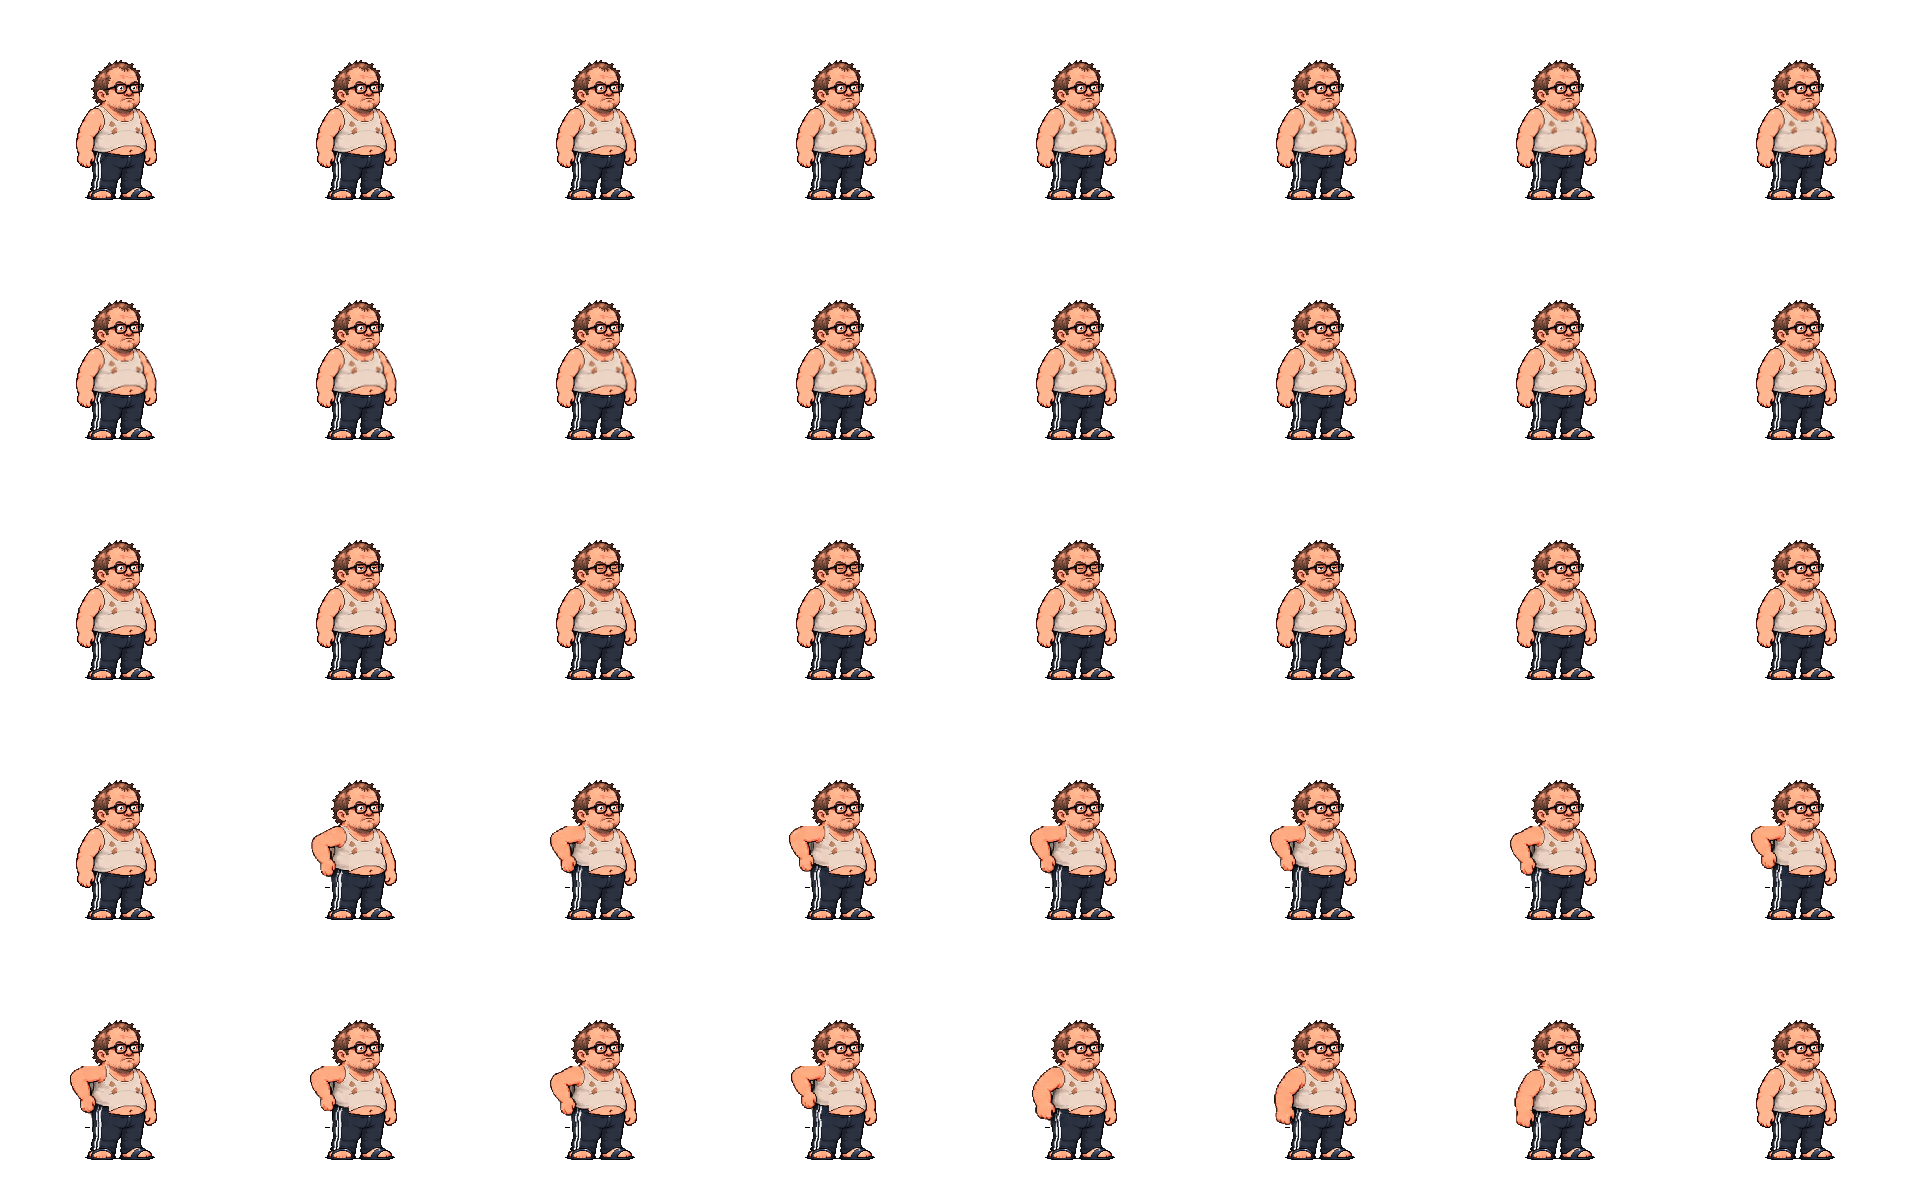
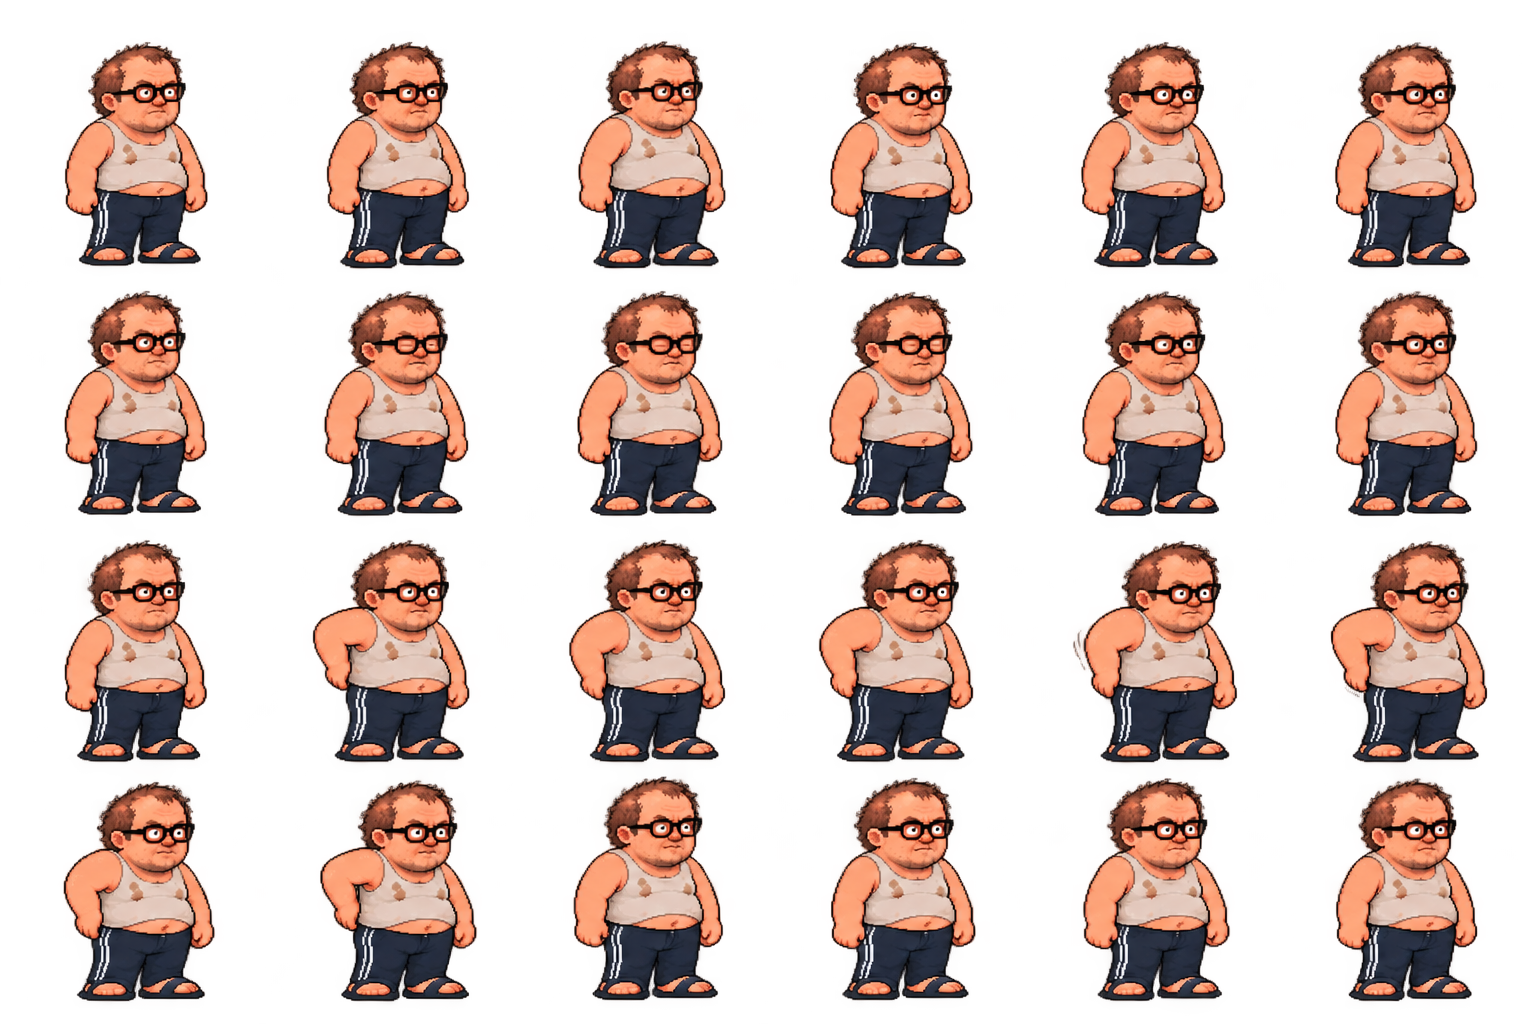
Статика на новом листе 6×4: дыхание, моргание, почёсывание
Кадры совмещены по ногам (в исходнике фигура гуляла на 20 px). Ряд
моргания снова перерисован целиком, поэтому вернул пересадку век:
кадры 7–12 = дыхание 1–6 с закрытыми веками из кадра 10. Чесание —
13–14, цикл 15–18 трижды, 19–24.

diff --git a/index.html b/index.html
@@ -9,7 +9,7 @@
 <div class="workspace"><section class="stage" aria-label="Анимационный экран"><div class="stage-top"><span><i class="dot"></i><span id="live">ЖИВЁТ СВОЮ ЖИЗНЬ</span></span><span>240 × 240 PX</span></div><div class="device"><canvas id="screen" width="240" height="240" aria-label="Игоряша в комнате"></canvas><div class="device-footer">SMALLTV PRO · ИГОРЯШГОЧИ</div></div><p class="scale-note">Персонаж ≈ 140 px · масштаб без сглаживания</p><div id="error" role="alert"></div></section>
 <aside><div class="intro"><div class="tag">Проверка спрайтшитов</div><h1>Один день Игоряши</h1><p>Пока ты смотришь, он занимается своими делами. Или выбери, чем ему заняться.</p></div>
 <div class="card"><div class="row"><div><div class="label">Сейчас</div><div id="status" class="status" aria-live="polite">Загружается…</div></div><span id="mode" class="mode">АВТО</span></div><div class="progress"><i id="progress"></i></div>
-<div class="actions"><button data-action="idle">Стоять <small>дышит и моргает</small></button><button data-action="scratch">Чесать жопу <small>кадры 25–40</small></button><button data-action="walk">Походить <small>готовые 24 кадра</small></button><button data-action="hungry">Просить хинкал <small>стучит в экран</small></button><button data-action="eat">Поесть <small>похлёбка, три подхода</small></button><button data-action="sick">Заболеть <small>тошнит</small></button><button data-action="love">Акт любви <small>кукла, обнимашки, бах</small></button><button data-action="tanks">Танки <small>катка, потом победа или ярость</small></button><button data-action="poop">Посрать <small>готовые 16 кадров</small></button><button id="clean">Убрать <small>очистить пол</small></button></div>
+<div class="actions"><button data-action="idle">Стоять <small>дышит и моргает</small></button><button data-action="scratch">Чесать жопу <small>чешет три раза</small></button><button data-action="walk">Походить <small>готовые 24 кадра</small></button><button data-action="hungry">Просить хинкал <small>стучит в экран</small></button><button data-action="eat">Поесть <small>похлёбка, три подхода</small></button><button data-action="sick">Заболеть <small>тошнит</small></button><button data-action="love">Акт любви <small>кукла, обнимашки, бах</small></button><button data-action="tanks">Танки <small>катка, потом победа или ярость</small></button><button data-action="poop">Посрать <small>готовые 16 кадров</small></button><button id="clean">Убрать <small>очистить пол</small></button></div>
 <div class="toolbar"><button id="auto" class="secondary active" aria-pressed="true">Автожизнь</button><button id="pause" class="secondary" aria-pressed="false">Пауза</button><button id="step" class="secondary">Кадр →</button></div></div>
 <div class="card settings"><label>Скорость <span class="row"><input id="speed" type="range" min="0.25" max="2" step="0.25" value="1"><output id="speedValue">1×</output></span></label><label>Фон<select id="background"><option value="room">Комната</option><option value="gray">Серый</option><option value="light">Светлый</option><option value="dark">Тёмный</option><option value="checker">Прозрачность</option></select></label><label>Размер экрана<select id="zoom"><option value="1">240 px · 1×</option><option value="1.5" selected>360 px · 1.5×</option><option value="2">480 px · 2×</option></select></label><label>Сетка и линия пола<input id="grid" type="checkbox"></label><label>Реплики<input id="speech" type="checkbox" checked></label><label>Тряска экрана<input id="shake" type="checkbox" checked></label><div class="details"><span id="frame">кадр —</span><span id="poopCount">на полу: 0</span></div></div>
 <p class="hint">Спрайтшиты — PNG из <code>assets/sprites/</code>, собираются из <code>source/</code> скриптом <code>tools/build_sprites.py</code>. Кадр 240×240, ноги на линии пола. Кнопка действия отключает автожизнь.</p></aside></div>

diff --git a/js/animations.js b/js/animations.js
@@ -9,8 +9,8 @@
   const range = n => Array.from({ length: n }, (_, i) => i);
 
   const sheets = {
-    // 0–15 дыхание, 16–23 моргание, 24–39 чешет жопу; 0, 15, 16, 24, 39 — одна поза покоя
-    idle:    { src: 'assets/sprites/idle.png',    cols: 8, frames: 40 },
+    // 0–5 дыхание, 6–11 те же кадры с закрытыми глазами, 12–23 чешет жопу
+    idle:    { src: 'assets/sprites/idle.png',    cols: 6, frames: 24 },
     hungry:  { src: 'assets/sprites/hungry.png',  cols: 4, frames: 16 },
     walk:    { src: 'assets/sprites/walk.png',    cols: 6, frames: 24 },
     poop:    { src: 'assets/sprites/poop.png',    cols: 4, frames: 16 },
@@ -24,26 +24,29 @@
     pile:    { src: 'assets/sprites/pile.png' },
   };
 
-  // Статика: плавное дыхание 0–15 (цикл 3,2 с) и моргание в случайный момент.
-  // Моргание (17–21) нарисовано в позе покоя, поэтому вставляется между вдохами.
-  const BREATH = seq(range(16), 200);
-  const BLINK = seq([17, 18, 19, 20, 21], [40, 40, 50, 40, 50]);
+  // Статика: дышит кадрами 0–5 и иногда моргает. Кадр k+BLINK — это кадр
+  // дыхания k с пересаженными закрытыми веками, поэтому моргнуть можно на любой фазе.
+  const BREATH = [400, 300, 300, 400, 300, 300];
+  const BLINK = 6, BLINK_MS = 100;
   function idleFrames(rand = Math.random) {
-    const cycles = 2 + Math.floor(rand() * 2);   // 2–3 вдоха
-    const blinks = new Set([Math.floor(rand() * cycles)]);
-    if (rand() < 0.35) blinks.add(Math.floor(rand() * cycles));
+    const cycles = 3 + Math.floor(rand() * 3);   // 3–5 вдохов
     const frames = [];
-    for (let c = 0; c < cycles; c++) {
-      frames.push(...BREATH);
-      if (!blinks.has(c)) continue;
-      frames.push(...BLINK);
-      if (rand() < 0.25) frames.push({ frame: 16, ms: 140 }, ...BLINK);   // двойное
+    for (let c = 0; c < cycles; c++) BREATH.forEach((ms, k) => frames.push({ frame: k, ms }));
+    const blinks = rand() < 0.35 ? 2 : 1;
+    for (let b = 0; b < blinks; b++) {
+      const i = Math.floor(rand() * frames.length);
+      const k = frames[i].frame;
+      if (k >= BLINK) continue;
+      const blink = [{ frame: k + BLINK, ms: BLINK_MS }];
+      if (rand() < 0.25) blink.push({ frame: k, ms: 120 }, { frame: k + BLINK, ms: BLINK_MS });   // двойное
+      frames.splice(i + 1, 0, ...blink);
     }
     return frames;
   }
-  // Чешет жопу: заводит руку (25–27), чешет 28–35 (цикл нарисован дважды), опускает (36–38).
-  const scratchSeq = range(16).map(i => i + 24);
-  const scratchMs = [150, 160, 160, 160, ...Array(8).fill(120), 160, 160, 160, 300];
+  // Чешет жопу: заводит руку (12–13), чешет кадрами 14–17 три раза, опускает руку (18–23).
+  const scratchLoop = [14, 15, 16, 17];
+  const scratchSeq = [12, 13, ...scratchLoop, ...scratchLoop, ...scratchLoop, 18, 19, 20, 21, 22, 23];
+  const scratchMs = [300, 220, ...Array(12).fill(130), 220, 220, 200, 220, 260, 500];
   // Голод: стучит кулаком в экран (кадры 4–7) два раза подряд, потом показывает на рот и живот.
   const hungrySeq = [0, 1, 2, 3, 4, 5, 6, 7, 4, 5, 6, 7, 8, 9, 10, 11, 12, 13, 14, 15];
   const hungryMs = [600, 200, 200, 300, 160, 140, 160, 140, 160, 140, 160, 260,
